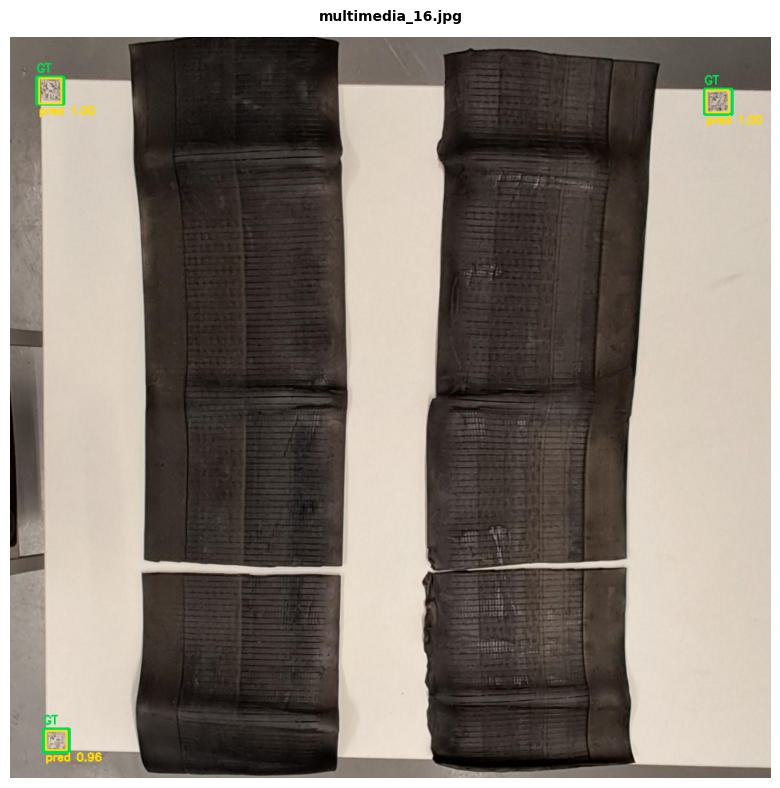
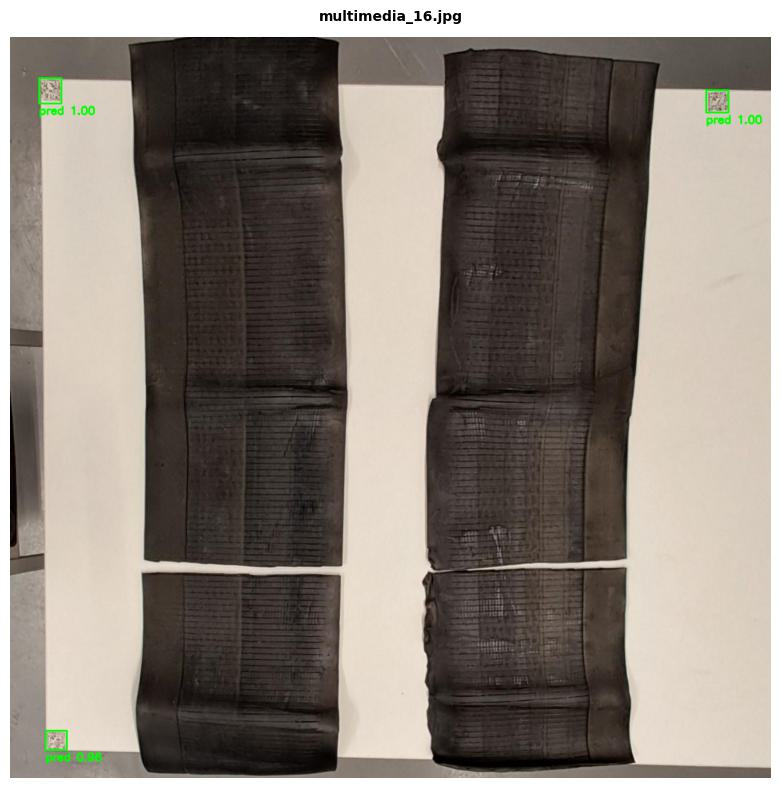
QR detection changed

Changed region(s): [[0.8923, 0.0914, 0.9846, 0.1827], [0.0308, 0.8832, 0.1538, 0.9746], [0.0308, 0.0609, 0.1231, 0.1523]]

diff --git a/models/Jaime/src/detection/qr_detection.py b/models/Jaime/src/detection/qr_detection.py
@@ -39,7 +39,7 @@ OUTPUT_SIZE   = (1000, 1400)
 OUT_W, OUT_H  = OUTPUT_SIZE
 
 COLOR_GT   = (0, 220, 80)    # verde   — ground truth
-COLOR_PRED = (255, 220, 0)   # amarillo — predicción
+COLOR_PRED = (0, 255, 0)     # verde — predicción
 
 DEFAULT_WEIGHTS = str(_HERE / "utils" / "runs" / "data" / "runs" / "michelin_v1" / "weights" / "best.pt")
 
@@ -95,6 +95,7 @@ def filter_preds(preds, img_h: int, img_w: int) -> tuple:
     raw = [(b.xyxy[0], float(b.conf[0])) for b in preds.boxes if int(b.cls[0]) == QR_CLASS]
     raw = [p for p in raw
            if (int(p[0][2]) - int(p[0][0])) * (int(p[0][3]) - int(p[0][1])) / (img_h * img_w) <= MAX_BOX_RATIO]
+    raw = sorted(raw, key=lambda p: p[1], reverse=True)[:3]
     boxes = [[*map(int, p[0])] for p in raw]
     confs = [p[1] for p in raw]
     return boxes, confs
@@ -188,29 +189,19 @@ def save_figures(model: YOLO) -> None:
         for img in sorted((DATA_ROOT / "valid" / "images").glob("*.jpg"))
     ]
 
-    for img_path, lbl_path in splits:
+    for img_path, _ in splits:
         img_bgr = cv2.imread(str(img_path))
         img_rgb = cv2.cvtColor(img_bgr, cv2.COLOR_BGR2RGB)
         H, W    = img_rgb.shape[:2]
-        gt      = load_gt_qr(lbl_path, W, H)
         preds   = model(img_bgr, verbose=False, conf=CONF_THR)[0]
         pred_boxes, pred_confs = filter_preds(preds, H, W)
-        tp_ious, n_fp, n_fn    = match_predictions(gt, pred_boxes)
 
         overlay = img_rgb.copy()
-        for box in gt:
-            x1, y1, x2, y2 = map(int, box)
-            cv2.rectangle(overlay, (x1, y1), (x2, y2), COLOR_GT, 3)
-            cv2.putText(overlay, "GT", (x1, max(y1 - 8, 12)),
-                        cv2.FONT_HERSHEY_SIMPLEX, 0.65, COLOR_GT, 2)
         for box, conf in zip(pred_boxes, pred_confs):
             x1, y1, x2, y2 = box
             cv2.rectangle(overlay, (x1, y1), (x2, y2), COLOR_PRED, 2)
             cv2.putText(overlay, f"pred {conf:.2f}", (x1, y2 + 18),
                         cv2.FONT_HERSHEY_SIMPLEX, 0.6, COLOR_PRED, 2)
-
-        iou_str  = f"IoU={np.mean(tp_ious):.3f}" if tp_ious else "IoU=nulo"
-        subtitle = f"GT={len(gt)}  Pred={len(pred_boxes)}  TP={len(tp_ious)}  FP={n_fp}  FN={n_fn}  {iou_str}"
 
         fig, ax = plt.subplots(1, 1, figsize=(8, 8))
         ax.imshow(overlay)
@@ -220,7 +211,7 @@ def save_figures(model: YOLO) -> None:
         plt.tight_layout()
         plt.savefig(OUT_FIG / f"{clean_stem}.jpg", dpi=100, bbox_inches="tight")
         plt.close()
-        print(f"  {img_path.name} → {subtitle}")
+        print(f"  {clean_stem}.jpg guardada")
 
     print(f"[viz] Figuras guardadas en: {OUT_FIG.resolve()}")
 
@@ -239,7 +230,6 @@ def export_homographies(model: YOLO) -> None:
                    if int(b.cls[0]) == QR_CLASS
                    and (int(b.xyxy[0][2]) - int(b.xyxy[0][0])) *
                        (int(b.xyxy[0][3]) - int(b.xyxy[0][1])) / (ih * iw) <= MAX_BOX_RATIO]
-
         if len(boxes) < 3:
             print(f"  [SKIP] {img_path.name}: solo {len(boxes)} QRs detectados")
             continue
